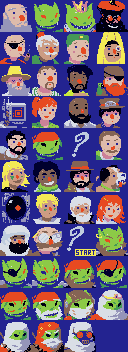
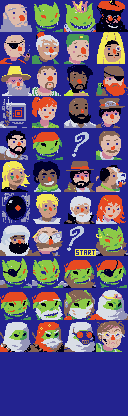
hostile hermit encounter

diff --git a/source/data/character_art.h b/source/data/character_art.h
@@ -3,13 +3,13 @@
 
 //======================================================================
 //
-//	character_art, 128x352@4, 
+//	character_art, 128x416@4, 
 //	Transparent color : FF,00,FF
 //	+ palette 16 entries, not compressed
-//	+ 704 tiles Metatiled by 4x4 not compressed
-//	Total size: 32 + 22528 = 22560
+//	+ 832 tiles Metatiled by 4x4 not compressed
+//	Total size: 32 + 26624 = 26656
 //
-//	Time-stamp: 2025-01-24, 12:57:30
+//	Time-stamp: 2025-06-05, 09:43:01
 //	Exported by Cearn's GBA Image Transmogrifier, v0.9.2
 //	( http://www.coranac.com/projects/#grit )
 //
@@ -18,8 +18,8 @@
 #ifndef GRIT_CHARACTER_ART_H
 #define GRIT_CHARACTER_ART_H
 
-#define character_artTilesLen 22528
-extern const unsigned int character_artTiles[5632];
+#define character_artTilesLen 26624
+extern const unsigned int character_artTiles[6656];
 
 #define character_artPalLen 32
 extern const unsigned short character_artPal[16];
